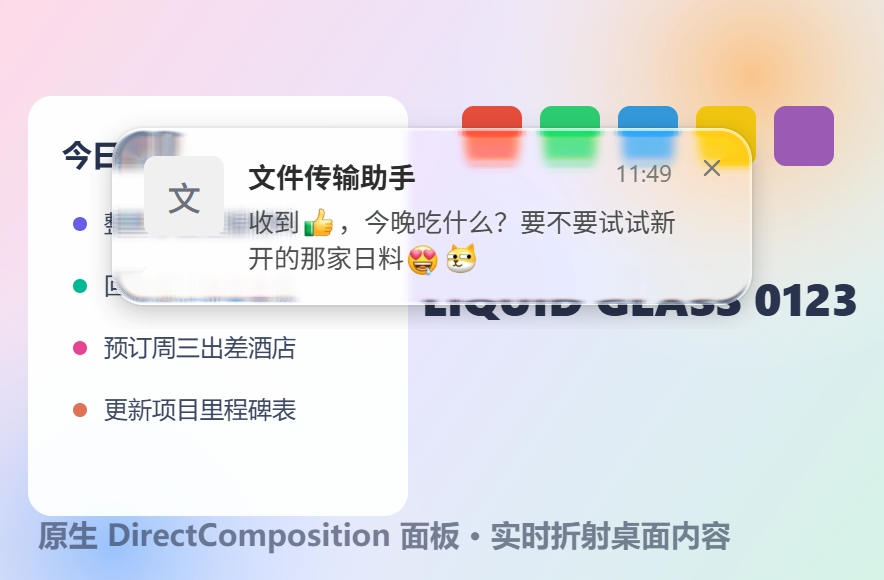
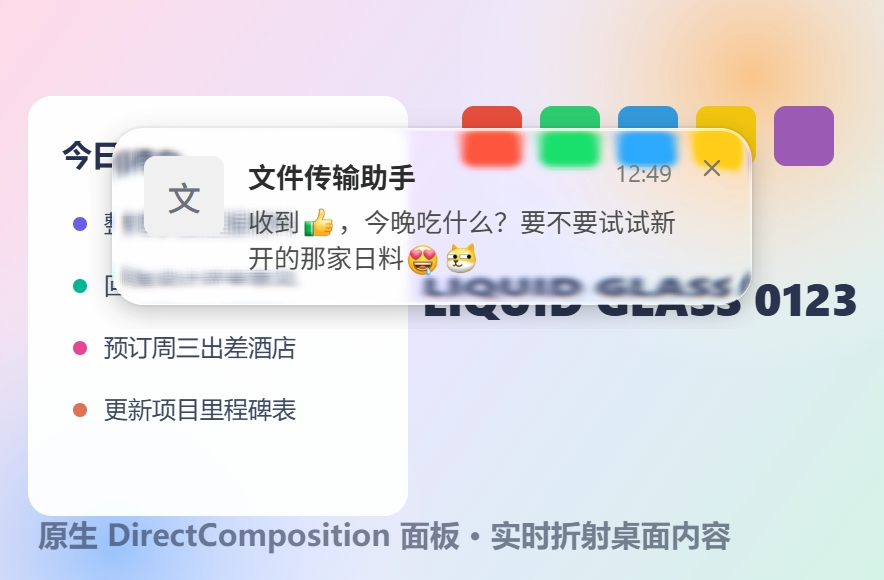
init

diff --git a/src/renderer.cc b/src/renderer.cc
@@ -42,11 +42,9 @@ float sdRoundRect(float2 p, float2 halfSize, float r) {
   return min(max(q.x, q.y), 0.0) + length(max(q, 0.0)) - r;
 }
 
-float2 sdNormal(float2 p, float2 halfSize, float r) {
-  float2 q = abs(p) - halfSize + r;
-  float2 n = (q.x > 0.0 && q.y > 0.0) ? normalize(q)
-                                      : (q.x > q.y ? float2(1.0, 0.0) : float2(0.0, 1.0));
-  return n * sign(p + float2(1e-6, 1e-6));
+// 平滑 max(q,0)：法线方向在角区连续旋转，消除对角线上的方向折痕
+float2 softClamp(float2 q, float soft) {
+  return 0.5 * (q + sqrt(q * q + soft * soft));
 }
 
 float2 toBlurUV(float2 px) {
@@ -64,23 +62,46 @@ float4 PSLens(float4 pos : SV_Position) : SV_Target {
   float coverage = saturate(0.5 - sd);
   if (coverage <= 0.0) return float4(0, 0, 0, 0);
 
-  // 单峰透镜剖面：边界处位移 0（内容跨界连续），峰值在带内 22% 处快速起坡
-  //（外圈窄带强压缩 = 水滴边缘的收束感），随后幂次缓释回 0 与平整中心衔接。
-  // 幅度上限 0.55×带宽保证采样深度不超出弯曲带：无远距鬼影、无失踪带
+  // 凸透镜边缘（外向折射）：玻璃边缘把边界外的内容压缩折进边缘带，与
+  // iOS 液态玻璃/玻璃球边缘的光学一致。剖面 (1-t)²：边界处向外看得最远
+  //（maxBend），沿深度平滑衰减到 0（C¹ 衔接平整中心）。映射斜率
+  // = 1 + 2·maxBend/bezel·(1-t) ≥ 1：处处压缩，结构上不存在拉伸/鬼影
   float depth = -sd;
   float2 disp = float2(0, 0);
+  float2 nrm = float2(0, 0);
+  float humpV = 0.0;
   if (depth > 0.0 && depth < bezel) {
+    float2 q = abs(p) - halfSize + r;
+    // 法线方向平滑过角（软化系数取圆角半径量级），位移在角区连续旋转
+    float2 qs = softClamp(q, max(r * 0.8, 1.0));
+    nrm = (qs / max(length(qs), 1e-4)) * sign(p + float2(1e-6, 1e-6));
     float t = depth / bezel;
-    float tp = 0.22;
-    float hump = t < tp ? sin(1.5707963 * t / tp)
-                        : pow(1.0 - (t - tp) / (1.0 - tp), 1.6);
-    disp = -sdNormal(p, halfSize, r) * (hump * maxBend) * dispFactor;
+    humpV = (1.0 - t) * (1.0 - t);
+    disp = nrm * (humpV * maxBend) * dispFactor;
   }
 
-  float cr = tex.Sample(smp, toBlurUV(css + disp)).r;
-  float cg = tex.Sample(smp, toBlurUV(css + disp * (1.0 - aberration * 0.05))).g;
-  float cb = tex.Sample(smp, toBlurUV(css + disp * (1.0 - aberration * 0.1))).b;
-  float3 c = float3(cr, cg, cb);
+  // 压缩带内做 5 tap 足迹积分（径向 + 切向拉丝）：边缘带是 2~3 倍缩小
+  // 映射，点采样会产生锯齿/摩尔纹；径向扩散随压缩强度自适应加宽做
+  // 抗锯齿，同时保留可辨认的压缩内容（苹果边缘的"流动光带"质感）
+  float3 c;
+  float dispLen2 = dot(disp, disp);
+  if (dispLen2 > 0.25) {
+    float2 tangent = float2(nrm.y, -nrm.x) * sqrt(dispLen2);
+    float rs = 0.05 + 0.10 * humpV;
+    float radial[5] = { 1.0 - 2.0 * rs, 1.0 - rs, 1.0, 1.0 + rs, 1.0 + 2.0 * rs };
+    const float lateral[5] = { -0.36, 0.18, 0.0, -0.18, 0.36 };
+    const float wts[5] = { 0.14, 0.22, 0.28, 0.22, 0.14 };
+    c = float3(0, 0, 0);
+    [unroll] for (int i = 0; i < 5; ++i) {
+      float2 d = disp * radial[i] + tangent * lateral[i];
+      c += wts[i] * float3(
+          tex.Sample(smp, toBlurUV(css + d)).r,
+          tex.Sample(smp, toBlurUV(css + d * (1.0 - aberration * 0.05))).g,
+          tex.Sample(smp, toBlurUV(css + d * (1.0 - aberration * 0.1))).b);
+    }
+  } else {
+    c = tex.Sample(smp, toBlurUV(css + disp)).rgb;
+  }
   float lum = dot(c, float3(0.213, 0.715, 0.072));
   c = lerp(lum.xxx, c, saturation);
 
@@ -317,10 +338,11 @@ void GlassRenderer::RunPasses(ID3D11DeviceContext* ctx, GlassPanel& panel, float
     const float margin = kBlurMarginCss * dpr;
 
     // 与 WebGL 版一致的透镜几何（物理像素）。
-    // maxBend ≤ 0.55×bezel：配合单峰剖面保证映射基本单调（无远距鬼影/失踪带）
+    // maxBend = 边界处向外看的最远距离（外向折射无单调性约束，可以做强）；
+    // 上限受模糊纹理外扩边距（kBlurMarginCss）限制，防止采样越界钳制
     const float halfMin = std::min(panelW, panelH) / 2.0f;
     const float bezel = std::min(24.0f * dpr, halfMin * 0.55f);
-    const float maxBend = std::min(28.0f * dpr, bezel * 0.55f);
+    const float maxBend = std::min({ 16.0f * dpr, bezel * 0.6f, margin * 0.8f });
 
     ShaderParams params{};
     params.glassSize[0] = panelW;

diff --git a/src/renderer.h b/src/renderer.h
@@ -1,4 +1,4 @@
-// 玻璃渲染器：与 WeFlow WebGL 管线同一套算法的 D3D11 实现。
+// 玻璃渲染器
 // 趟1/2：面板区域(+边距)半分辨率可分离高斯模糊
 // 趟3：解析式圆角矩形 SDF 透镜位移 + RGB 色散 + 饱和度 + 圆角 AA 覆盖 alpha
 // 输入为 DDA 桌面纹理的区域拷贝（区域拷贝持久保留，供淡入淡出无新帧时重绘）